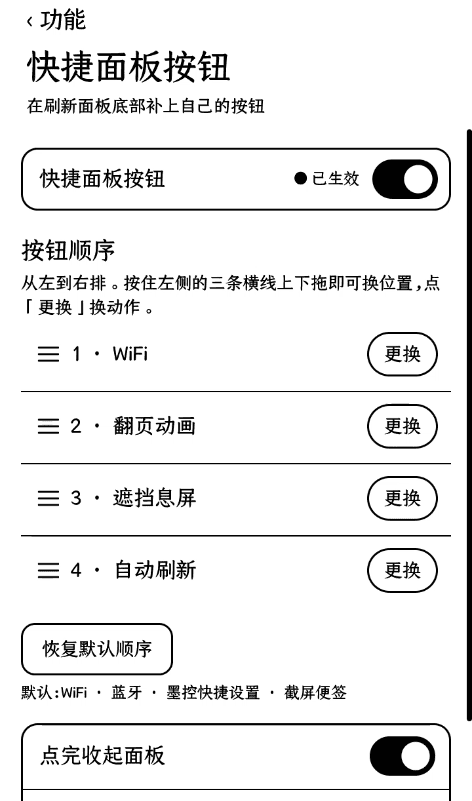
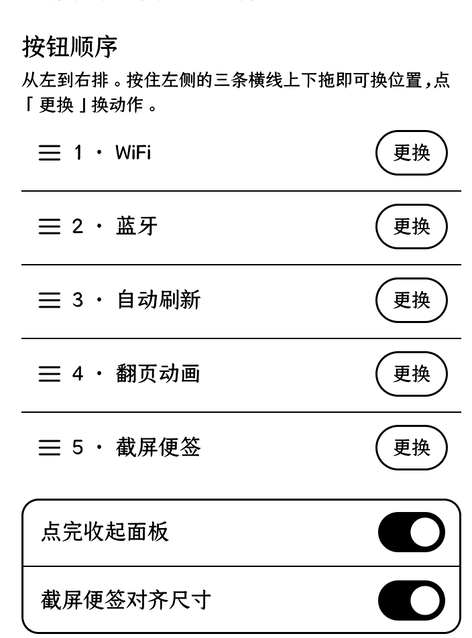
0.2.7-r27：版本号升级，快捷面板扩到 5 个按钮位置
版本
- 升到 0.2.7-r27（versionCode 27）：AndroidManifest 的 versionName / versionCode、tools/build.py
  的 VERSION 与 module.prop 的 versionCode、backend/lib/common.sh 里 ic_ready 的字面版本同批
  更新；docs/wiki 的候选版本与 knowledge-index.json 的 source_version 跟上。
- 新增 docs/releases/0.2.7-r27.md，Release 正文以此文件为准；
  docs/功能列表后端支持清单.md 的适用版本改 r27、锁屏通知的来源补「不显示」。

新增
- qs.panel.btn5：面板底部最多摆五格，出厂顺序 WiFi、蓝牙、自动刷新、翻页动画、截屏便签。
- FeatureCatalog.panelActions 支持默认项为「无」：它排在动作表之前（当前五个位置没用到，
  留着以后加位置时不必重写）；其余位置的取值表长度与默认值不变。

变更
- PanelHook 的 SLOTS 加第 5 格；并排超过四个时 fitCells() 把 click_region 撑满整格、
  文字从 12sp 逐级缩到放得下（最小 9sp）。模板里 click_region 固定 100dp，五格时每格
  只有 136px，「墨控快捷设置」这类六字动作会被裁掉两头。
- 撑宽只改 LayoutParams.width，不新建 LayoutParams：模板里 click_region 带 16dp 上边距，
  整体换掉会把边距一起丢掉，五个按钮的图标会顶到格子最上面（实机截图确认过）。
- 默认顺序改成 WiFi / 蓝牙 / 自动刷新 / 翻页动画 / 截屏便签（btn3 由「墨控快捷设置」改为
  「自动刷新」，btn4 由「截屏便签」改为「翻页动画」，btn5 为「截屏便签」）。
- 「快捷面板按钮」页底部：「恢复默认顺序」与出厂名单并排一行——按钮在左，名单在右
  （去掉「默认：」前缀，11sp，宽度权重 1，放不下自然折行）；开关卡片后的留白收到 12dp。
- Guide 补第 5 格的条目与说明；backend/lib/common.sh 的 ic_validate 可选键白名单从
  btn[1-4] 扩到 btn[1-5]——旧后端不认这个键会让 ready=0，所以前后端必须同批装。
- 文档：docs/E-Ink快捷面板.md（五格写法、五格时的像素中心、文字自适应、出厂顺序）、
  docs/README.md、docs/功能列表后端支持清单.md 第十节。
- 截图：README 的 E-Ink 快捷面板与快捷面板按钮两张换成 0.2.7-r27 真机图
  （ui-panel 360×289、ui-panel-buttons 472×638），docs/media/README.md 的版本归属、
  尺寸、描述与 SHA256 同步。

注意
- 本次是配置键新增，APK 与后端必须同批重建、同批安装；若验机不满意，整条提交回退即可
  回到四格。

Changed region(s): [[0.0297, 0.0, 1.0, 1.0]]

diff --git a/src/com/inkcontrol/core/FeatureCatalog.java b/src/com/inkcontrol/core/FeatureCatalog.java
@@ -20,7 +20,7 @@ public final class FeatureCatalog {
     /** 这一项是否没有开关、始终启用。 */
     public static boolean required(String id) { return REQUIRED.contains(id); }
     /**
-     * 刷新面板底部四个位置可选的动作（取值, 面板上显示的名字）。
+     * 刷新面板底部每个位置可选的动作（取值, 面板上显示的名字）。
      *
      * <p>前十个就是控制中心那排磁贴；{@code refresh}／{@code lock}／{@code cover}／{@code pageanim}
      * 是墨控自己的四个开关（自动刷新、锁屏主题、遮挡息屏、翻页动画），点一下就地开关（锁屏主题
@@ -38,7 +38,7 @@ public final class FeatureCatalog {
     /** 这个位置不显示按钮（选择框里排在最上面的「无」）。 */
     public static final String PANEL_NONE = "none";
 
-    /** 四个位置共用同一套动作，只是默认值不同；{@code defaultValue()} 取第一个取值，所以把默认项排到最前。 */
+    /** 各位置共用同一套动作，只是默认值不同；{@code defaultValue()} 取第一个取值，所以把默认项排到最前。 */
     private static String panelValues(String first) {
         StringBuilder out = new StringBuilder();
         for (String[] action : panelActions(first)) out.append(out.length() == 0 ? "" : ",").append(action[0]);
@@ -56,9 +56,11 @@ public final class FeatureCatalog {
     private static String[][] panelActions(String first) {
         String[][] ordered = new String[PANEL_ACTIONS.length + 2][];
         int at = 0;
+        // 默认项也可以是「无」：此时它排在动作表之前（当前五个位置没用到，留着以后加位置时不必重写）。
+        if (PANEL_NONE.equals(first)) ordered[at++] = new String[]{PANEL_NONE, "无"};
         for (String[] action : PANEL_ACTIONS) if (action[0].equals(first)) ordered[at++] = action;
         for (String[] action : PANEL_ACTIONS) if (!action[0].equals(first)) ordered[at++] = action;
-        ordered[at++] = new String[]{PANEL_NONE, "无"};
+        if (!PANEL_NONE.equals(first)) ordered[at++] = new String[]{PANEL_NONE, "无"};
         ordered[at] = new String[]{FeatureDefinition.PACKAGE_TOKEN, "某个应用"};
         return ordered;
     }
@@ -189,16 +191,20 @@ public final class FeatureCatalog {
         add("fix.safeime", "系统增强", "冻结安全输入服务后能输密码", "密码框改用当前输入法，不再因原厂强制切换导致设置崩溃、隐藏应用进不去、应用锁被直接放行；关闭开关时还原原值", "systemui", "", HOT, false, "default", "恢复密码输入");
         // 同一个面板的按钮区：原厂在这台设备上只会生成「截屏便签」一个按钮（另外三个属于
         // 老显示模式），空着一大片。这里在每次弹出后按原厂按钮模板补几个自用按钮。
-        add("qs.panel", "快捷面板修改", "快捷面板按钮", "刷新面板底部补上自己的按钮，四个位置的动作在下面选", "systemui", "", HOT, false, "default", "加入按钮");
-        // 四个位置各存一个动作；位置顺序就是按钮顺序，所以「排序」等于把两格的动作对调。
+        add("qs.panel", "快捷面板修改", "快捷面板按钮", "刷新面板底部补上自己的按钮，每个位置的动作在下面选", "systemui", "", HOT, false, "default", "加入按钮");
+        // 五个位置各存一个动作；位置顺序就是按钮顺序，所以「排序」等于把两格的动作对调。
         add("qs.panel.btn1", "快捷面板修改", "第 1 个按钮", "面板底部从左数第一个按钮的动作", "systemui", "qs.panel", HOT, false, panelValues("wifi"), panelLabels("wifi"));
         add("qs.panel.btn2", "快捷面板修改", "第 2 个按钮", "面板底部从左数第二个按钮的动作", "systemui", "qs.panel", HOT, false, panelValues("bt"), panelLabels("bt"));
-        add("qs.panel.btn3", "快捷面板修改", "第 3 个按钮", "面板底部从左数第三个按钮的动作", "systemui", "qs.panel", HOT, false, panelValues("quick"), panelLabels("quick"));
-        add("qs.panel.btn4", "快捷面板修改", "第 4 个按钮", "面板底部从左数第四个按钮的动作", "systemui", "qs.panel", HOT, false, panelValues("pin"), panelLabels("pin"));
+        add("qs.panel.btn3", "快捷面板修改", "第 3 个按钮", "面板底部从左数第三个按钮的动作", "systemui", "qs.panel", HOT, false, panelValues("refresh"), panelLabels("refresh"));
+        add("qs.panel.btn4", "快捷面板修改", "第 4 个按钮", "面板底部从左数第四个按钮的动作", "systemui", "qs.panel", HOT, false, panelValues("pageanim"), panelLabels("pageanim"));
+        // 第 5 个位置默认「截屏便签」：和前面四格一起构成出厂顺序
+        // WiFi / 蓝牙 / 自动刷新 / 翻页动画 / 截屏便签。选满五格时每格只有 68dp，
+        // 面板里会把这几个按钮的文字自动缩一档（见 PanelHook.fitCells）。
+        add("qs.panel.btn5", "快捷面板修改", "第 5 个按钮", "面板底部从左数第五个按钮的动作", "systemui", "qs.panel", HOT, false, panelValues("pin"), panelLabels("pin"));
         // 面板是盖住屏幕下半部分的系统悬浮窗，点完按钮不会自己收起，会一直挡住后面的界面。
         add("qs.panel.close", "快捷面板修改", "点完收起面板", "点完按钮后自动收起面板，不再挡住界面", "systemui", "qs.panel", HOT, false, "default", "点完收起");
         // 原厂那个「截屏便签」的图标和文字都比补上来的按钮大一圈（原厂按整块面板的尺寸画，
-        // 补上的四个按 28dp 图标 / 12sp 文字），默认缩到同一档，四个按钮才齐平。
+        // 补上的按 28dp 图标 / 12sp 文字），默认缩到同一档，并排的几个按钮才齐平。
         add("qs.panel.pinsize", "快捷面板修改", "截屏便签对齐尺寸", "把原厂「截屏便签」的图标和文字缩到和补上的按钮一样大", "systemui", "qs.panel", HOT, false, "default", "统一尺寸", true);
         add("experiment.cache", "实验室", "GPU 参数缓存", "提交阶段局部优化，不承诺整机提速", "backend", "display.gpu", HOT, true, "default", "缓存uniform位置");
         add("experiment.video", "实验室", "视频抖动算法", "关闭时使用 GPU 蓝噪声；可改用原厂误差扩散对比", "backend", "display.gpu", HOT, true, "blue,stock", "蓝噪声与迟滞,原厂误差扩散");

diff --git a/src/com/inkcontrol/features/qsext/PanelHook.java b/src/com/inkcontrol/features/qsext/PanelHook.java
@@ -51,11 +51,11 @@ import de.robv.android.xposed.callbacks.XC_LoadPackage;
  * 被 {@code mIsSupportNewDisplayMode} 与顶部应用过滤掉，所以底部只有居中一个按钮。
  *
  * <p>所以这里把原厂那个「截屏便签」摘下来当一枚可复用的按钮，再按 {@code qs.panel.btnN} 的取值
- * 摆四个位置：控制中心那套动作（WiFi、蓝牙、铃声、飞行模式、手电筒、自动旋转、整屏翻页、
- * 免打扰、省电模式、悬浮球）、墨控自己的三项开关（自动刷新、锁屏主题、遮挡息屏）、
- * 「墨控快捷设置」、「截屏便签」原厂按钮、以及任意一个应用（包名）或「无」（这一格不显示）。
- * 四个位置都标 {@code two}，与原厂单行同排，面板高度不变（{@code InkButtonsParent} 按每行
- * 个数平分宽度）。
+ * 摆最多五个位置：控制中心那套动作（WiFi、蓝牙、铃声、飞行模式、手电筒、自动旋转、整屏翻页、
+ * 免打扰、省电模式、悬浮球）、墨控自己的开关（自动刷新、锁屏主题、遮挡息屏、翻页动画、全刷扫过）、
+ * 「刷新格言」、「墨控快捷设置」、「截屏便签」原厂按钮、以及任意一个应用（包名）或「无」（这一格
+ * 不显示）。五个位置都标 {@code two}，与原厂单行同排，面板高度不变（{@code InkButtonsParent} 按
+ * 每行个数平分宽度）。
  *
  * <p>长按是「跳去设置」：WiFi、蓝牙跳系统设置页；「自动刷新」「遮挡息屏」跳墨控里对应的
  * 大功能分类页，「锁屏主题」跳样式选择那一页。跳转前一律收起面板（不给开关）。
@@ -73,7 +73,8 @@ public class PanelHook implements IXposedHookLoadPackage {
     private static final String CLOSE = "qs.panel.close";
     /** 原厂「截屏便签」的图标与文字比补上来的按钮大一圈，默认缩到同一档。 */
     private static final String PIN_SIZE = "qs.panel.pinsize";
-    private static final String[] SLOTS = {"qs.panel.btn1", "qs.panel.btn2", "qs.panel.btn3", "qs.panel.btn4"};
+    private static final String[] SLOTS = {"qs.panel.btn1", "qs.panel.btn2", "qs.panel.btn3",
+            "qs.panel.btn4", "qs.panel.btn5"};
     private static final ComponentName HOME =
             new ComponentName("com.inkcontrol", "com.inkcontrol.ui.MainActivity");
     /** 墨控里「快捷设置」页：MainActivity 读到这个 extra 直接渲染遮挡息屏 / 锁屏主题 / 自动刷新。 */
@@ -171,6 +172,42 @@ public class PanelHook implements IXposedHookLoadPackage {
         // 顺序就是位置顺序：先清空再按顺序放回去，InkButtonsParent 会在下一轮测量里重新均分宽度。
         parent.removeAllViews();
         for (View item : items) parent.addView(item);
+        fitCells(context, items);
+    }
+
+    /**
+     * 并排超过四个时每格会窄于 85dp（容器固定 680px：四格 170px、五格 136px），而模板里的
+     * {@code click_region} 写死 100dp、文字 12sp，「墨控快捷设置」这种六字动作会被裁掉两头。
+     * 所以格子多于四个时把 {@code click_region} 撑满整格，再把文字一档档缩到放得下（最小 9sp）。
+     *
+     * <p>只改宽、不动原有的 LayoutParams：模板里 {@code click_region} 带 16dp 上边距，
+     * 换成新的 LayoutParams 会把边距一起丢掉，五个按钮的图标就会顶到格子最上面。
+     */
+    private static void fitCells(Context context, List<View> items) {
+        if (items.size() <= 4) return;
+        float density = context.getResources().getDisplayMetrics().density;
+        // 容器宽度＝屏宽 − 两侧各 10dp 外边距（见 ink_screen_pop_window 里那层 LinearLayout）。
+        int cell = Math.max(1, Math.round((context.getResources().getDisplayMetrics().widthPixels - 20 * density) / items.size()));
+        float room = cell - 4 * density;
+        for (View item : items) {
+            try {
+                View region = item.findViewById(id(context, "click_region"));
+                ViewGroup.LayoutParams params = region == null ? null : region.getLayoutParams();
+                if (params != null) {
+                    params.width = ViewGroup.LayoutParams.MATCH_PARENT;
+                    region.setLayoutParams(params);
+                }
+                TextView summary = item.findViewById(id(context, "summary"));
+                if (summary == null || summary.getText() == null) continue;
+                String text = summary.getText().toString();
+                for (int sp = 12; sp > 9; sp--) {
+                    summary.setTextSize(android.util.TypedValue.COMPLEX_UNIT_SP, sp);
+                    if (summary.getPaint().measureText(text) <= room) break;
+                }
+            } catch (Throwable error) {
+                XposedBridge.log(TAG + "fit cell failed: " + error);
+            }
+        }
     }
 
     /** 按位置读动作；取值非法（比如旧配置）时退回该位置自己的默认值。 */
@@ -280,7 +317,7 @@ public class PanelHook implements IXposedHookLoadPackage {
     /**
      * 原厂模板里图标是 wrap_content：状态栏那套图标本身是白色、尺寸还不一样（蓝牙那个
      * 96dp 见方，会把下面的文字挤成 0 高），所以这里固定成 28dp 见方；矢量图标再染成黑色，
-     * 白底面板上才看得见，四个按钮的图标也对得齐。
+     * 白底面板上才看得见，几个按钮的图标也对得齐。
      */
     private static void setIcon(Context context, ImageView icon, Drawable drawable, boolean tint) {
         int box = Math.round(28 * context.getResources().getDisplayMetrics().density);

diff --git a/src/com/inkcontrol/ui/MainActivity.java b/src/com/inkcontrol/ui/MainActivity.java
@@ -124,7 +124,7 @@ public final class MainActivity extends Activity {
     private View visualView;
     /** 从面板/快捷方式进来时，落页后要滚到的那一行（功能 id）。 */
     private String scrollToFocus;
-    /** 面板四格刚拖完、还没写进配置的新顺序；有值时按它画，省得等 root 应用那一两秒。 */
+    /** 面板按钮刚拖完、还没写进配置的新顺序；有值时按它画，省得等 root 应用那一两秒。 */
     private String[] panelOrderPending;
     private boolean panelOrderBusy;
 
@@ -1956,7 +1956,8 @@ public final class MainActivity extends Activity {
 
     // ── 快捷面板：按钮顺序、动作与两个开关 ──
 
-    private static final String[] PANEL_SLOTS = {"qs.panel.btn1", "qs.panel.btn2", "qs.panel.btn3", "qs.panel.btn4"};
+    private static final String[] PANEL_SLOTS = {"qs.panel.btn1", "qs.panel.btn2", "qs.panel.btn3",
+            "qs.panel.btn4", "qs.panel.btn5"};
 
     /**
      * 「快捷面板修改」页：总开关 + 按钮顺序 + 两个小开关。
@@ -1984,9 +1985,9 @@ public final class MainActivity extends Activity {
     }
 
     /**
-     * 「快捷面板按钮」页里的一块编辑：四个位置各是什么动作（位置顺序就是按钮顺序），
+     * 「快捷面板按钮」页里的一块编辑：五个位置各是什么动作（位置顺序就是按钮顺序），
      * 下面挂「点完收起面板」与「截屏便签对齐尺寸」两个开关。挪位置靠拖动把手重排，
-     * 写回时四格动作整体搬一次，不另存一份顺序。
+     * 写回时整排动作整体搬一次，不另存一份顺序。
      */
     private void panelEditor() {
         com.inkcontrol.core.Configuration config = snapshot.config;
@@ -1995,7 +1996,7 @@ public final class MainActivity extends Activity {
         if (panelOrderPending == null) for (int i = 0; i < order.length; i++) order[i] = config.value(PANEL_SLOTS[i]);
         LinearLayout panel = column(heading("按钮顺序", 18),
                 spaced(paragraph("从左到右排。按住左侧的三条横线上下拖即可换位置，点「更换」换动作。", 13), 6));
-        // 四个位置单独装一层：拖动落点是按容器子视图的中线算的，标题与按钮不能混在同一个容器里。
+        // 每个位置单独装一层：拖动落点是按容器子视图的中线算的，标题与按钮不能混在同一个容器里。
         LinearLayout items = DragSort.container(this);
         for (int i = 0; i < PANEL_SLOTS.length; i++) {
             String id = PANEL_SLOTS[i];
@@ -2025,11 +2026,17 @@ public final class MainActivity extends Activity {
         switches.addView(smallToggleRow("qs.panel.close"));
         switches.addView(ink.rule(1));
         switches.addView(smallToggleRow("qs.panel.pinsize"));
-        body.addView(spaced(switches, 16));
+        body.addView(spaced(switches, 12));
 
-        // 恢复默认是次要操作，压到最底下：小一号按钮 + 一行说明默认顺序。
-        LinearLayout reset = column(spaced(smallButton("恢复默认顺序", v -> resetSlots()), 10),
-                ink.text("默认：WiFi · 蓝牙 · 墨控快捷设置 · 截屏便签", 12, Ink.REGULAR));
+        // 恢复默认是次要操作，压在页面底部：左边小一号按钮，右边直接跟出厂顺序本身
+        // （不再写「默认：」前缀，也不再占一行，省得整块贴着底部导航）。
+        LinearLayout reset = new LinearLayout(this);
+        reset.setOrientation(LinearLayout.HORIZONTAL);
+        reset.setGravity(Gravity.CENTER_VERTICAL);
+        reset.addView(smallButton("恢复默认顺序", v -> resetSlots()));
+        LinearLayout.LayoutParams note = new LinearLayout.LayoutParams(0, -2, 1);
+        note.leftMargin = ink.dp(12);
+        reset.addView(ink.text("WiFi · 蓝牙 · 自动刷新 · 翻页动画 · 截屏便签", 11, Ink.REGULAR), note);
         body.addView(spaced(reset, 18));
     }
 
@@ -2154,7 +2161,7 @@ public final class MainActivity extends Activity {
     /**
      * 拖动换位：把第 {@code from} 格的动作用搬到第 {@code to} 位。
      *
-     * <p>先按新顺序重画一版再后台落盘 + 应用，中间不弹「处理中」——四格动作只有 SystemUI 读，
+     * <p>先按新顺序重画一版再后台落盘 + 应用，中间不弹「处理中」——这些动作只有 SystemUI 读，
      * 但顺序要写进配置，所以仍要跑一次应用；一次应用一两秒，拖完立刻回弹原位会很难用。
      */
     private void orderSlots(int from, int to) {
@@ -2193,7 +2200,7 @@ public final class MainActivity extends Activity {
     }
 
     private void resetSlots() {
-        final String[] defaults = {"wifi", "bt", "quick", "pin"};
+        final String[] defaults = {"wifi", "bt", "refresh", "pageanim", "pin"};
         perform("恢复默认顺序", () -> {
             for (int i = 0; i < PANEL_SLOTS.length; i++) saveValue(FeatureCatalog.get(PANEL_SLOTS[i]), defaults[i]);
             return "已恢复默认顺序";

diff --git a/src/com/inkcontrol/ui/Guide.java b/src/com/inkcontrol/ui/Guide.java
@@ -122,7 +122,7 @@ final class Guide {
                 {"备份", "sys.backup"}});
         cat("快捷面板修改", "把系统的E-Ink刷新面板换成一些自定义功能", new String[][]{
                 {"按钮", "qs.panel"}},
-                new String[]{"qs.panel.btn1", "qs.panel.btn2", "qs.panel.btn3", "qs.panel.btn4",
+                new String[]{"qs.panel.btn1", "qs.panel.btn2", "qs.panel.btn3", "qs.panel.btn4", "qs.panel.btn5",
                         "qs.panel.close", "qs.panel.pinsize"});
         // 独立界面（不走功能开关列表），sections 留空；渲染由 MainActivity 特判。
         // 放默认顺序最后：首页里它是唯一会动系统应用的入口，不该夹在常用分类中间。
@@ -440,12 +440,14 @@ final class Guide {
                 .option("default", "加入按钮", "");
         put("qs.panel.close").summary("点完按钮就收起面板").what("面板盖住屏幕下半部分，点完不收会一直挡着后面的界面；开启后点完就收，回到刚才那一屏。")
                 .option("default", "点完收起", "");
-        put("qs.panel.pinsize").summary("原厂「截屏便签」缩到和补上的按钮一样大").what("原厂那个按钮按整块面板的尺寸画，图标和文字都比补上来的大一圈；开启后按同样的 28dp 图标、12sp 文字重画，四个按钮看起来齐平。")
+        put("qs.panel.pinsize").summary("原厂「截屏便签」缩到和补上的按钮一样大").what("原厂那个按钮按整块面板的尺寸画，图标和文字都比补上来的大一圈；开启后按同样的 28dp 图标、12sp 文字重画，并排的按钮看起来才齐平。")
                 .option("default", "统一尺寸", "");
-        for (int slot = 1; slot <= 4; slot++) {
+        for (int slot = 1; slot <= 5; slot++) {
             Entry entry = put("qs.panel.btn" + slot)
                     .summary("第 " + slot + " 个按钮做什么")
-                    .what("面板底部从左数第 " + slot + " 个按钮的动作。四个位置共用这套动作，换位置就是换顺序。"
+                    .what("面板底部从左数第 " + slot + " 个按钮的动作。五个位置共用这套动作，换位置就是换顺序。"
+                            + "默认顺序是 WiFi、蓝牙、自动刷新、翻页动画、截屏便签，点「恢复默认顺序」可以一键回到这套；"
+                            + "五格并排时每格窄一点，长一点的文字会自动缩一档。"
                             + "墨控自己的几项（自动刷新、遮挡息屏、翻页动画、全刷扫过）点一下就地开关，长按跳到对应的设置页；"
                             + "锁屏主题点一下等同于长按，直接去挑样式，免得误触把整套锁屏关掉；"
                             + "刷新格言点一下就让锁屏格言换下一条，长按跳到「锁屏显示」页。");

diff --git a/tools/build.py b/tools/build.py
@@ -9,7 +9,7 @@ import subprocess
 import zipfile
 
 ROOT = Path(__file__).resolve().parents[1]
-VERSION = '0.2.6-r26'
+VERSION = '0.2.7-r27'
 INPUTS = {
[2 lines of base64/hex data omitted]
@@ -225,7 +225,7 @@ def main():
     if hits != 3: raise ValueError('resident 路径数量异常：%d' % hits)
     (module/'bin/a5pro-resident').write_bytes(bytes(resident))
     (module/'bin/a5pro-control-once').write_bytes((args.inputs/'a5pro-control-once').read_bytes())
-    (module/'module.prop').write_text('id=inkcontrol_backend\nname=墨控显示后端\nversion='+VERSION+'\nversionCode=26\nauthor=InkControl contributors\ndescription=墨控统一后端；增强默认关闭，通过App逐项开启。\n', encoding='utf-8', newline='\n')
+    (module/'module.prop').write_text('id=inkcontrol_backend\nname=墨控显示后端\nversion='+VERSION+'\nversionCode=27\nauthor=InkControl contributors\ndescription=墨控统一后端；增强默认关闭，通过App逐项开启。\n', encoding='utf-8', newline='\n')
     (module/'checksums.sha256').write_text(''.join(sha(p)+'  '+p.relative_to(module).as_posix()+'\n' for p in sorted(module.rglob('*')) if p.is_file() and p.name != 'customize.sh' and 'META-INF' not in p.parts), encoding='utf-8', newline='\n')
     assert b'\r' not in (module/'module.prop').read_bytes() + (module/'checksums.sha256').read_bytes()
     suffix = '-unsigned' if args.unsigned else ''

diff --git a/test/CoreTest.java b/test/CoreTest.java
@@ -195,10 +195,10 @@ public final class CoreTest {
         check(safeime.group.equals("系统增强") && safeime.role.equals("systemui")
                 && safeime.mode == FeatureDefinition.ApplyMode.HOT && !safeime.defaultOn
                 && safeime.values.size() == 1 && safeime.values.get(0).equals("default"));
-        // 四个位置各存一个动作，默认顺序 WiFi / 蓝牙 / 墨控快捷设置 / 截屏便签。
+        // 五个位置各存一个动作，默认顺序 WiFi / 蓝牙 / 自动刷新 / 翻页动画 / 截屏便签。
         // 取值＝动作表 + 末尾的「无」和单个应用包名（@package）。
-        String[] slotDefaults = {"wifi", "bt", "quick", "pin"};
-        for (int slot = 1; slot <= 4; slot++) {
+        String[] slotDefaults = {"wifi", "bt", "refresh", "pageanim", "pin"};
+        for (int slot = 1; slot <= 5; slot++) {
             FeatureDefinition button = FeatureCatalog.get("qs.panel.btn" + slot);
             check(button.group.equals("快捷面板修改") && button.dependency.equals("qs.panel")
                     && button.mode == FeatureDefinition.ApplyMode.HOT

diff --git a/docs/media/README.md b/docs/media/README.md
@@ -1,14 +1,14 @@
 # 界面截图 / UI screenshots
 
-来源：**真机截屏**（`HLTE203T`，Android 10，1-bit 墨水屏）。`ui-settings` / `ui-shortcuts` 是 App 版本 **0.2.2-r19**，`ui-home` / `ui-panel-buttons` / `ui-pageanim` 是 **0.2.6-r26**，`ui-panel` / `ui-pageanim-readers` 是 **0.2.5-r23**。`ui-settings` / `ui-shortcuts` 用 2×2 均值缩到 360×720，其余按原比例缩到 472 宽（`ui-home` 472×944、`ui-panel-buttons` 472×801、两张 `ui-pageanim-*.png` 472×944），除缩放外未做任何编辑（没有裁切、增强或重绘）；`ui-panel.png` 额外裁掉面板以上的桌面区域。
+来源：**真机截屏**（`HLTE203T`，Android 10，1-bit 墨水屏）。`ui-settings` / `ui-shortcuts` 是 App 版本 **0.2.2-r19**，`ui-home` / `ui-pageanim` 是 **0.2.6-r26**，`ui-panel` / `ui-panel-buttons` 是 **0.2.7-r27**，`ui-pageanim-readers` 是 **0.2.5-r23**。`ui-settings` / `ui-shortcuts` 用 2×2 均值缩到 360×720，其余按原比例缩到 472 宽（`ui-home` 472×944、`ui-panel-buttons` 472×638、两张 `ui-pageanim-*.png` 472×944），除缩放外未做任何编辑（没有增强或重绘）；`ui-panel` 另按 360 宽缩放并裁掉面板以上的桌面区域，只保留面板本身（360×289），`ui-panel-buttons` 另裁掉右侧滚动条。
 
-Source: **physical-device screenshots** (`HLTE203T`, Android 10, 720×1440, 1-bit panel). `ui-settings` / `ui-shortcuts` are app version **0.2.2-r19**; `ui-home` / `ui-panel-buttons` / `ui-pageanim` are **0.2.6-r26**; `ui-panel` / `ui-pageanim-readers` are **0.2.5-r23**. `ui-settings` / `ui-shortcuts` were downscaled to 360×720 with a 2×2 box filter; the rest are scaled to 472 px wide (`ui-home` 472×944, `ui-panel-buttons` 472×801, both `ui-pageanim-*.png` 472×944), nothing else edited; `ui-panel.png` additionally crops away the launcher area above the panel, keeping the panel itself.
+Source: **physical-device screenshots** (`HLTE203T`, Android 10, 720×1440, 1-bit panel). `ui-settings` / `ui-shortcuts` are app version **0.2.2-r19**; `ui-home` / `ui-pageanim` are **0.2.6-r26**; `ui-panel` / `ui-panel-buttons` are **0.2.7-r27**; `ui-pageanim-readers` is **0.2.5-r23**. `ui-settings` / `ui-shortcuts` were downscaled to 360×720 with a 2×2 box filter; the rest are scaled to 472 px wide (`ui-home` 472×944, `ui-panel-buttons` 472×638, both `ui-pageanim-*.png` 472×944), nothing else edited; `ui-panel` is scaled to 360 px wide and cropped to the panel itself (360×289), `ui-panel-buttons` also drops the scrollbar on the right edge.
 
 - `ui-home.png`：功能首页——页头的 `墨控 v0.2.6-r26` / 关于 / 就绪，下面是各分类卡片，每张一行标题加一句说明。
 - `ui-settings.png`：「模块设置」首页——安装、诊断、功能列表排序、桌面快捷方式、实验室、名词解释（列表顶部，末项在标签栏后继续）。
 - `ui-shortcuts.png`：「模块设置 → 桌面快捷方式」——长按桌面图标时列出的四项及其顺序。
-- `ui-panel.png`：**E-Ink 快捷面板**（SystemUI 的 `InkPopWindow`，720×1440 截屏的下半部分，裁成 360×304）——亮度、当前显示模式，底部四格依次是 WiFi、蓝牙、自动刷新、遮挡息屏；底色半透明，能透出后面的桌面图标。
-- `ui-panel-buttons.png`：「系统增强 → 快捷面板修改」直达的**快捷面板按钮**页——总开关（「快捷面板按钮 · 已生效」单行紧凑行）、四行「序号 · 动作」各带左侧拖动把手与「更换」、「恢复默认顺序」，以及页内的「点完收起面板」「截屏便签对齐尺寸」开关（列表在标签栏后继续）。
+- `ui-panel.png`：**E-Ink 快捷面板**（SystemUI 的 `InkPopWindow`，720×1440 截屏的下半部分，裁成 360×289）——亮度、当前显示模式，底部五格依次是 WiFi、蓝牙、自动刷新、翻页动画、截屏便签；底色半透明，能透出后面的桌面图标。
+- `ui-panel-buttons.png`：「系统增强 → 快捷面板修改」直达的**快捷面板按钮**页——`按钮顺序` 标题与操作说明、五行「序号 · 动作」（WiFi / 蓝牙 / 自动刷新 / 翻页动画 / 截屏便签，各带左侧拖动把手与「更换」），以及页内的「点完收起面板」「截屏便签对齐尺寸」开关；页顶的总开关行与页底的「恢复默认顺序」不在这张裁切里。
 - `ui-pageanim.png`：**翻页动画**页——总开关与「已生效」回执、`01 选择翻页风格` 四个下拉（横向展开 / 12 阶段（均衡）/ 12 块 / 250 毫秒）、`02 翻页操作` 的前两项（反转动画方向、点击与横向滑动翻页）；再往下还有实体音量键翻页、音量键遵从翻页直觉与 `03 目标阅读器`。
 - `ui-pageanim-readers.png`：`03 目标阅读器` 的「选择应用 · 目标阅读器」弹窗——搜索框输入「微信」后过滤出「微信读书」并勾选，底部为「取消」「保存」。
 
@@ -21,7 +21,7 @@ These are framebuffer captures, **not panel photographs**: they show layout, not
[9 lines of base64/hex data omitted]

diff --git a/docs/E-Ink快捷面板.md b/docs/E-Ink快捷面板.md
@@ -68,23 +68,23 @@ adb shell input swipe 647 1395 647 1395 120
 - 唤出后按 HOME / back 会发 `android.intent.action.CLOSE_SYSTEM_DIALOGS`，`StatusBar$14` 收到后 `dismissView`；唤出到点击之间不要插返回操作。
 - 息屏 / 锁屏唤不出，且无线 adb 在息屏时会掉线；测试前确认 `dumpsys power` 为 `Awake`、`dumpsys trust` 为 `deviceLocked=0`。
 - `input tap` 会丢点（一次连发只进前几个），点按钮统一用 `input swipe x y x y 120`。
-- 四格按钮的设备像素中心约 x=107 / 277 / 445 / 618、y≈1275；截图 720×1440。
+- 四格按钮的设备像素中心约 x=107 / 277 / 445 / 618、y≈1275；摆满五格时每格 136px，中心 x≈88 / 224 / 360 / 496 / 632。截图 720×1440。
 - **收起必须调 `closePopWindow()`**：它 removeView 并置空；只把 `mReallyView` 设 `GONE`，下次唤起会被当成「关闭」吞掉一次。
 - 拉起墨控用 `FLAG_ACTIVITY_NEW_TASK | FLAG_ACTIVITY_SINGLE_TOP`；`MainActivity` 没声明 launchMode，不加 `SINGLE_TOP` 会重复开页。
 
-## 四、当前实现：`qs.panel` 四格按钮
+## 四、当前实现：`qs.panel` 最多五格按钮
 
 主体在 `src/com/inkcontrol/features/qsext/PanelHook.java`：
 
 1. 只在 `com.android.systemui` 作用域安装一次（`sInstalled`），hook `InkPopWindow.showPopWindow` 的 `afterHookedMethod`，异常一律写 `XposedBridge.log`，不让 SystemUI 崩。
 2. 从 `mButtonsParent` / `mContext` 取容器与上下文，按资源名取 `ink_screen_button_item` 布局；把原厂「截屏便签」按钮摘下来复用（它可能被排到别的位次）。
-3. 按 `qs.panel.btn1` … `qs.panel.btn4` 的取值摆四个位置，四格都标 `two`，与原厂单行同排；`InkButtonsParent` 按每行个数平分宽度，面板高度不变。App 里换位是**拖把手**：按住左侧三条横线上下拖，松手后把四格动作整体搬一次（只写真的动了的那几格）。
+3. 按 `qs.panel.btn1` … `qs.panel.btn5` 的取值摆最多五个位置，都标 `two`，与原厂单行同排；`InkButtonsParent` 按每行个数平分宽度（容器 680px：四格 170px、五格 136px），面板高度不变。出厂顺序是 WiFi / 蓝牙 / 自动刷新 / 翻页动画 / 截屏便签，`恢复默认顺序` 一键回到这套。并排超过四个时 `click_region` 固定 100dp 会把「墨控快捷设置」这类六字动作裁掉两头，`fitCells()` 会把 `click_region` 撑满整格、文字从 12sp 逐级缩到放得下（最小 9sp）；撑宽只改 `LayoutParams.width`，不能新建 LayoutParams（模板里 `click_region` 带 16dp 上边距，整体换掉图标会顶到格子最上面）。App 里换位是**拖把手**：按住左侧三条横线上下拖，松手后把整排动作整体搬一次（只写真的动了的那几格）。
 4. 动作表见 `FeatureCatalog.PANEL_ACTIONS`：控制中心那套（WiFi、蓝牙、铃声、飞行模式、手电筒、自动旋转、整屏翻页、免打扰、省电模式、悬浮球）、墨控自己的开关（自动刷新 / 锁屏主题 / 遮挡息屏 / 翻页动画 / 全刷扫过）、就地动作「刷新格言」、「墨控快捷设置」、原厂「截屏便签」、任意应用包名、以及 `PANEL_NONE`（这一格不显示）。取值非法时退回该位置的默认值。
 5. 长按是「跳去设置」：WiFi / 蓝牙跳系统设置页；墨控的几项用 `quick=1` 或 `category=<分类名>` extra 落到对应页，全刷扫过再带 `focus=motion.gc_clear` 让「动画」页直接滚到 `02 全刷扫过`，刷新格言落到「锁屏显示」页。跳转前一律收起面板。
 6. 「刷新格言」不是开关，也不是功能项：点一下由 `run()` 直接发 `com.inkcontrol.action.LOCK_MOTTO_NEXT` 给本进程（SystemUI）的锁屏 Hook，由它反射原厂 `MottoHelper.getNextMotto()` 换下一条并提示。桌面快捷方式里的同名项走同一条广播。
 7. `qs.panel.close` 控制点完是否收起；`qs.panel.pinsize` 把原厂「截屏便签」的 28dp 图标 / 12sp 文字与补上的按钮对齐。总开关 `qs.panel` 关闭时完全走原厂，不摘按钮、不换顺序、不缩尺寸。
 
-配置键一览：`qs.panel`、`qs.panel.btn1` … `btn4`、`qs.panel.close`、`qs.panel.pinsize`。新增/修改这类键需按仓库「增删功能键」规范同步 `FeatureCatalog`、`Guide`、`common.sh` 的 `ic_validate`、`CoreTest` 等处。
+配置键一览：`qs.panel`、`qs.panel.btn1` … `btn5`、`qs.panel.close`、`qs.panel.pinsize`。新增/修改这类键需按仓库「增删功能键」规范同步 `FeatureCatalog`、`Guide`、`common.sh` 的 `ic_validate`、`CoreTest` 等处。
 
 ## 五、面板开关与 App 状态同步
 

diff --git a/docs/功能列表后端支持清单.md b/docs/功能列表后端支持清单.md
@@ -1,6 +1,6 @@
 # 功能列表后端支持清单
 
-> 适用版本：墨控 InkControl 0.2.6-r26（2026-11-08 更新）
+> 适用版本：墨控 InkControl 0.2.7-r27（2026-11-09 更新）
 > 设备：海信 A5 Pro 经典版（HLTE203T / Android 10）
 > 本文档随源码保存在 `docs/`，面向使用者与协作者。
 
@@ -54,7 +54,7 @@
 
 ### 2. 锁屏（角色 `systemui`，LSPosed 钩 SystemUI）
 
-- 自定义锁屏、天气、锁屏通知（2026-10-26 起单一开关：关闭即不显示，开启后选系统/微信来源）、倒数日、歌词、刷新方式等：**不需要后端模块**，只要 LSPosed 启用且作用域含 `com.android.systemui`。配置由 SystemUI 进程直接从 App 保护存储读取。原「隐藏锁屏通知」（`lock.notifyhide`）已并入「锁屏通知」。
+- 自定义锁屏、天气、锁屏通知（2026-10-26 起单一开关：关闭即不显示，开启后选系统/微信来源，0.2.7-r27 起还可选「不显示」留空该区域）、倒数日、歌词、刷新方式等：**不需要后端模块**，只要 LSPosed 启用且作用域含 `com.android.systemui`。配置由 SystemUI 进程直接从 App 保护存储读取。原「隐藏锁屏通知」（`lock.notifyhide`）已并入「锁屏通知」。
 - 例外：**消除锁屏细线**（`lock.dither`，点量化）依赖 `display.gpu`，需要后端模块 + GPU 后端。
 
 ### 3. 动画（角色 `system`，LSPosed 钩 system_server）
@@ -111,7 +111,7 @@
 
 ### 10. 快捷面板修改（角色 `systemui`，LSPosed 钩 SystemUI）
 
-- 面板本身的按钮替换、图标与动作都在 SystemUI 进程里完成，**不需要后端模块、不需要 GPU 显示后端**。
+- 面板本身的按钮替换、图标与动作都在 SystemUI 进程里完成，**不需要后端模块、不需要 GPU 显示后端**。按钮位置最多五个（`qs.panel.btn1`–`btn5`，出厂顺序 WiFi / 蓝牙 / 自动刷新 / 翻页动画 / 截屏便签）：`ic_validate` 的 `qs.panel` 可选键白名单要同步，否则旧后端会把新键当成非法键让 `ready=0`；五格并排时每格只有 68dp，文字会自动缩一档。
 - 「自动刷新」「遮挡息屏」「翻页动画」「全刷扫过」这几个按钮点一下是开关：SystemUI 没有墨控私有目录的写权限，调用 `ConfigProvider` 的 `toggle` 把写盘与 root 应用转给 App 进程（白名单在 `ConfigProvider.TOGGLES`）；App 收到 `panel-toggle` 通知后重读快照并重画，界面上的开关样式才跟着变。App 不在前台时没有界面可刷新，下次打开会自动重读最新配置。长按「全刷扫过」跳到「动画」页并带 `focus=motion.gc_clear`，落页后滚到 `02 全刷扫过`。
 - 「锁屏主题」单击改为直接进锁屏样式页，不再就地关掉整套锁屏。
 - **墨控被强制停止时**：海信的进程管控会禁止 SystemUI 拉起该包的 provider（`Unknown authority com.inkcontrol.state`）。`PanelHook` 检测到 provider 不可用时显式启动透明页 `PanelToggleActivity`（厂商只拦 provider/service 启动，不拦 Activity），由它把同一条 toggle 交给 `ConfigProvider` 完成后立刻结束，焦点不离开当前界面。写配置仍必须由墨控自己的进程完成，但拉起的是无界面空壳，不是打开应用。

diff --git a/docs/releases/0.2.7-r27.md b/docs/releases/0.2.7-r27.md
@@ -1,0 +1,32 @@
+⚠ **重要提醒：安装前请务必备份您的数据！**
+
+# 墨控 InkControl 0.2.7-r27（versionCode 27）
+
+## 更新内容
+
+### 新增
+
+- **快捷面板多一格按钮**：按钮位置从 4 个扩到 5 个，出厂顺序改成 WiFi、蓝牙、自动刷新、翻页动画、截屏便签；五格并排时每格变窄，按钮文字会自动缩一档。
+
+### 变更
+
+- **总开关没开也能先改配置**：调整配置文件在没有开启总开关修改的逻辑。
+- 快捷面板页顺序调整：「点完收起面板」「截屏便签尺寸对齐」挪到按钮顺序下方；「恢复默认顺序」右侧直接跟出厂名单。
+- **翻页动画页删掉两条过期说明**：底部「与「GPU 显示后端」只能二选一」（r26 起已能共存）和「选完下次翻页生效，无需重启」。
+
+## 使用注意
+
+- 本次只改界面与配置保存时机，**后端能力没有变化**：安装包与后端模块版本号必须一致，升级时同批重装并完整重启一次。
+- 总开关关闭时保存的只是取值，**开关本身仍需手动打开**才会生效。
+
+## 完整更新日志
+
+[v0.2.6-r26 → v0.2.7-r27](https://github.com/liuqianhe/InkControl/compare/v0.2.6-r26...v0.2.7-r27)
+
+## 风险提示与免责声明
+
+本项目仍处于实验与候选验证阶段，**建议仅用于备用机或专用测试机，不要用于承担通信、支付或重要数据存储的主力机**。构建与静态检查通过不等于完成实机稳定性验收，也不保证兼容其他设备或固件。
+
+Root、Magisk 模块、系统框架钩子及显示后端改动可能造成死机、反复重启、**无法开机、数据丢失或设备损坏，部分故障可能无法恢复**；停用、卸载和回退机制不保证能救回设备或数据，也不承诺回退能救回。
+
+**安装、升级或启用功能前，先备份照片、文档、聊天记录、应用数据和重要配置，并把备份复制到电脑或其他独立存储、确认能读取，不要只留在手机上。** 提前准备与当前固件匹配的恢复方式；不清楚如何停用模块时请先不要尝试。项目按原样提供，不承诺无故障、无数据损失或可恢复；备份只能降低风险，不能保证设备可修复。

diff --git a/docs/README.md b/docs/README.md
@@ -7,7 +7,7 @@
 
 | 文档 | 讲什么 | 什么时候看 |
 | --- | --- | --- |
-| [E-Ink快捷面板.md](E-Ink快捷面板.md) | E-Ink 刷新面板怎么唤起、四格按钮怎么替换、原厂「截屏便签」怎么复用；动作表、长按跳转、`toggle` 与 App 状态同步链路、被 force-stop 时的兜底 | 改面板按钮、加面板动作、排查面板开关不生效 |
+| [E-Ink快捷面板.md](E-Ink快捷面板.md) | E-Ink 刷新面板怎么唤起、按钮怎么替换（最多五格，第 5 格默认「无」）、原厂「截屏便签」怎么复用；动作表、长按跳转、`toggle` 与 App 状态同步链路、被 force-stop 时的兜底 | 改面板按钮、加面板动作、排查面板开关不生效 |
 | [刷新格言外部调用.md](刷新格言外部调用.md) | 不打开墨控、从 shell / 自动化工具刷新锁屏格言的两条命令（广播与透明页）、链路与前置条件 | 写脚本、做自动化、排查外部触发无反应 |
 | [翻页动画融合实现.md](翻页动画融合实现.md) | 分块揭示怎么落进 GPU 波形分带：接入点、门控条件、条带相位与帧数预算、六种展开形状、方向判定（手势与音量键）、目标阅读器闸门、与全刷扫过的互斥、属性与排查口径 | 改翻页动画、融合、分带揭示或全刷扫过 |
 | [全刷画面回退修复.md](全刷画面回退修复.md) | 全刷后画面退回上一页：三缓冲轮转假定「每波都有新帧」的根因，按 SF 出帧计数决定「消费新帧 / 复用屏上帧」的修复、验证口径与回退开关 | 排查全刷闪回上一页、动 GPU 取帧链路 |

diff --git a/README.md b/README.md
@@ -36,7 +36,7 @@
 
 <table><tr><th>功能首页</th><th>模块设置</th><th>桌面快捷方式</th></tr><tr><td><img src="docs/media/ui-home.png" alt="功能首页" width="260"></td><td><img src="docs/media/ui-settings.png" alt="模块设置" width="260"></td><td><img src="docs/media/ui-shortcuts.png" alt="桌面快捷方式" width="260"></td></tr></table>
 
-<table><tr><th>E-Ink 快捷面板</th><th>快捷面板按钮</th></tr><tr><td><img src="docs/media/ui-panel.png" alt="E-Ink 快捷面板" width="300"></td><td><img src="docs/media/ui-panel-buttons.png" alt="快捷面板按钮页" width="230"></td></tr></table>
+<table><tr><th>E-Ink 快捷面板</th><th>快捷面板按钮</th></tr><tr><td><img src="docs/media/ui-panel.png" alt="E-Ink 快捷面板：亮度、当前显示模式，底部五格 WiFi、蓝牙、自动刷新、翻页动画、截屏便签" width="300"></td><td><img src="docs/media/ui-panel-buttons.png" alt="快捷面板按钮页：按钮顺序五行（各带拖动把手与更换）与两个页内开关" width="230"></td></tr></table>
 
 <table><tr><th>翻页动画</th><th>目标阅读器</th></tr><tr><td><img src="docs/media/ui-pageanim.png" alt="翻页动画设置页：总开关，以及风格、速度、分块、间隔四个下拉" width="230"></td><td><img src="docs/media/ui-pageanim-readers.png" alt="目标阅读器选择弹窗：搜索应用并勾选" width="230"></td></tr></table>
 
